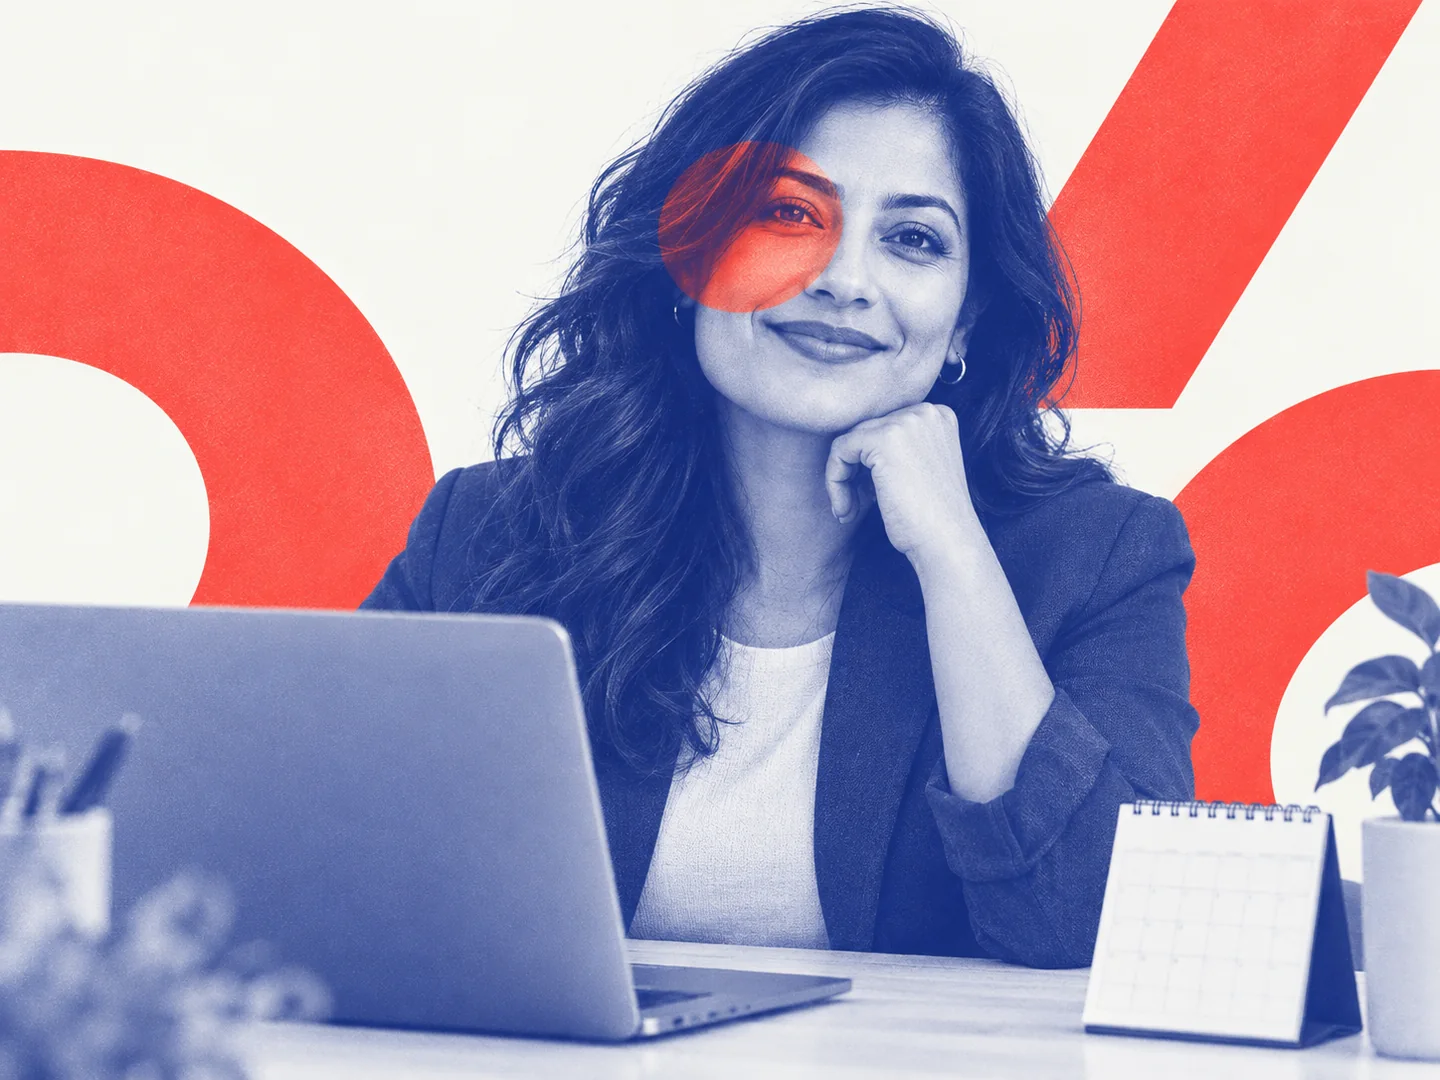
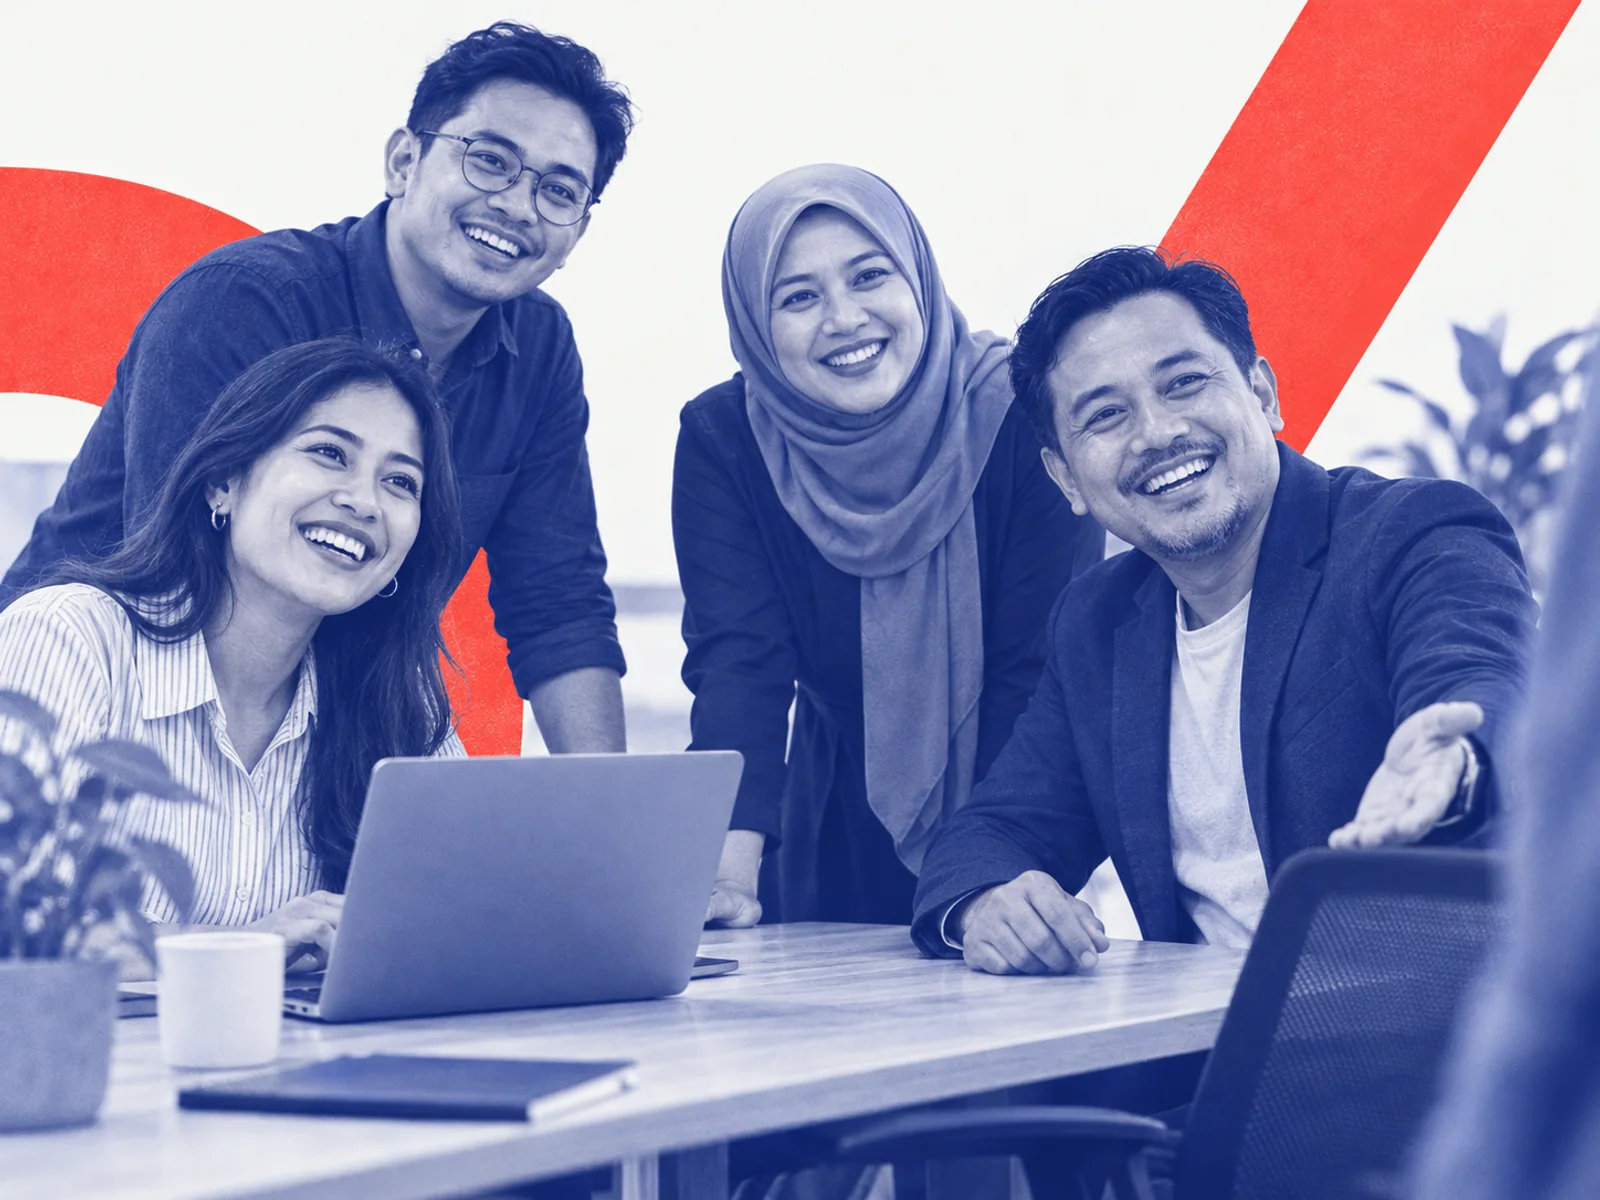
Welcome visitors with a larger team photo

diff --git a/app/thank-you/page.tsx b/app/thank-you/page.tsx
@@ -14,7 +14,7 @@ const nextSteps=[
 export default function Page(){return <div className="booking-page">
   <section className="booking-intro" aria-labelledby="booking-title"><div className="wrap booking-intro-grid">
     <div className="booking-copy"><p className="booking-status"><span aria-hidden="true">✓</span> Request received</p><h1 id="booking-title">Your request is in.</h1><h2>Nice to meet you. Choose your time.</h2><p className="booking-lede">You have already done the hard part by reaching out. Pick a time below and we’ll come ready to listen, understand what is getting stuck, and identify a practical first step.</p><div className="booking-note"><span aria-hidden="true">30</span><p><strong>A focused 30-minute conversation.</strong><br/>No sales deck. No sensitive customer details. Just your questions and one workflow you would like to make easier.</p></div><a className="booking-jump" href="#calendar-title">Choose a time <span aria-hidden="true">↓</span></a><Link className="booking-back" href="/">Return to the homepage</Link></div>
-    <figure className="booking-photo"><Image src="/editorial-thank-you-scheduler.webp" alt="Customer success professional ready for a scheduled consultation" width={1440} height={1080} priority sizes="(max-width: 900px) 100vw, 44vw"/><figcaption><b>Next: choose what works.</b><span>Your local time zone appears in the calendar below.</span></figcaption></figure>
+    <figure className="booking-photo"><Image src="/editorial-thank-you-scheduler.webp" alt="Welcoming Southeast Asian account support team gathered around a worktable" width={1600} height={1200} priority sizes="(max-width: 900px) 100vw, 52vw"/><figcaption><b>Welcome to the team.</b><span>We’re ready to listen. Choose a time that works for you below.</span></figcaption></figure>
   </div></section>
   <section className="booking-calendar-section" aria-labelledby="calendar-title"><div className="wrap booking-calendar-grid">
     <aside className="booking-steps"><p className="eyebrow">What happens next</p><h2>Simple from here.</h2><ol>{nextSteps.map(([number,title,copy])=><li key={number}><b>{number}</b><div><h3>{title}</h3><p>{copy}</p></div></li>)}</ol></aside>

diff --git a/app/thank-you/thank-you.css b/app/thank-you/thank-you.css
@@ -1,7 +1,7 @@
 .booking-page{color:var(--ink)}
 .booking-intro{position:relative;overflow:hidden;padding:var(--opening-space) 0 clamp(3rem,5vw,4.5rem);background:var(--ink);color:var(--bg)}
 .booking-intro:before{content:'';position:absolute;width:30rem;height:30rem;right:-12rem;top:-19rem;border:4.5rem solid var(--accent);border-radius:50%;opacity:.82}
-.booking-intro-grid{position:relative;display:grid;grid-template-columns:minmax(0,1fr) minmax(360px,.78fr);gap:clamp(2.5rem,6vw,6rem);align-items:center}
+.booking-intro-grid{position:relative;display:grid;grid-template-columns:minmax(0,.78fr) minmax(500px,1.12fr);gap:clamp(2rem,4vw,4rem);align-items:center}
 .booking-copy{position:relative;z-index:1}.booking-status{display:inline-flex;align-items:center;gap:10px;margin:0 0 .9rem;padding:8px 12px;border:2px solid var(--accent);color:var(--accent);font:900 .78rem/1 var(--display);letter-spacing:.13em;text-transform:uppercase}.booking-status span{display:grid;place-items:center;width:22px;height:22px;background:var(--accent);color:var(--ink)}
 .booking-copy h1{max-width:11ch;margin:0;font:900 clamp(3.8rem,6.6vw,6.8rem)/.84 var(--display);letter-spacing:-.025em;text-transform:uppercase}.booking-copy h2{max-width:18ch;margin:.8rem 0 1rem;color:var(--accent);font:900 clamp(1.65rem,3vw,2.8rem)/.95 var(--display);letter-spacing:-.015em;text-transform:uppercase}
 .booking-lede{max-width:60ch;margin:0;color:color-mix(in srgb,var(--bg) 82%,transparent);font-size:1rem;line-height:1.65}.booking-note{display:grid;grid-template-columns:62px 1fr;gap:18px;align-items:center;max-width:650px;margin:1.4rem 0;padding:1rem 0;border-block:1px solid color-mix(in srgb,var(--bg) 30%,transparent)}.booking-note>span{font:900 3rem/1 var(--display);color:var(--accent)}.booking-note p{margin:0;font-size:.84rem;line-height:1.55}.booking-note strong{color:var(--bg)}
